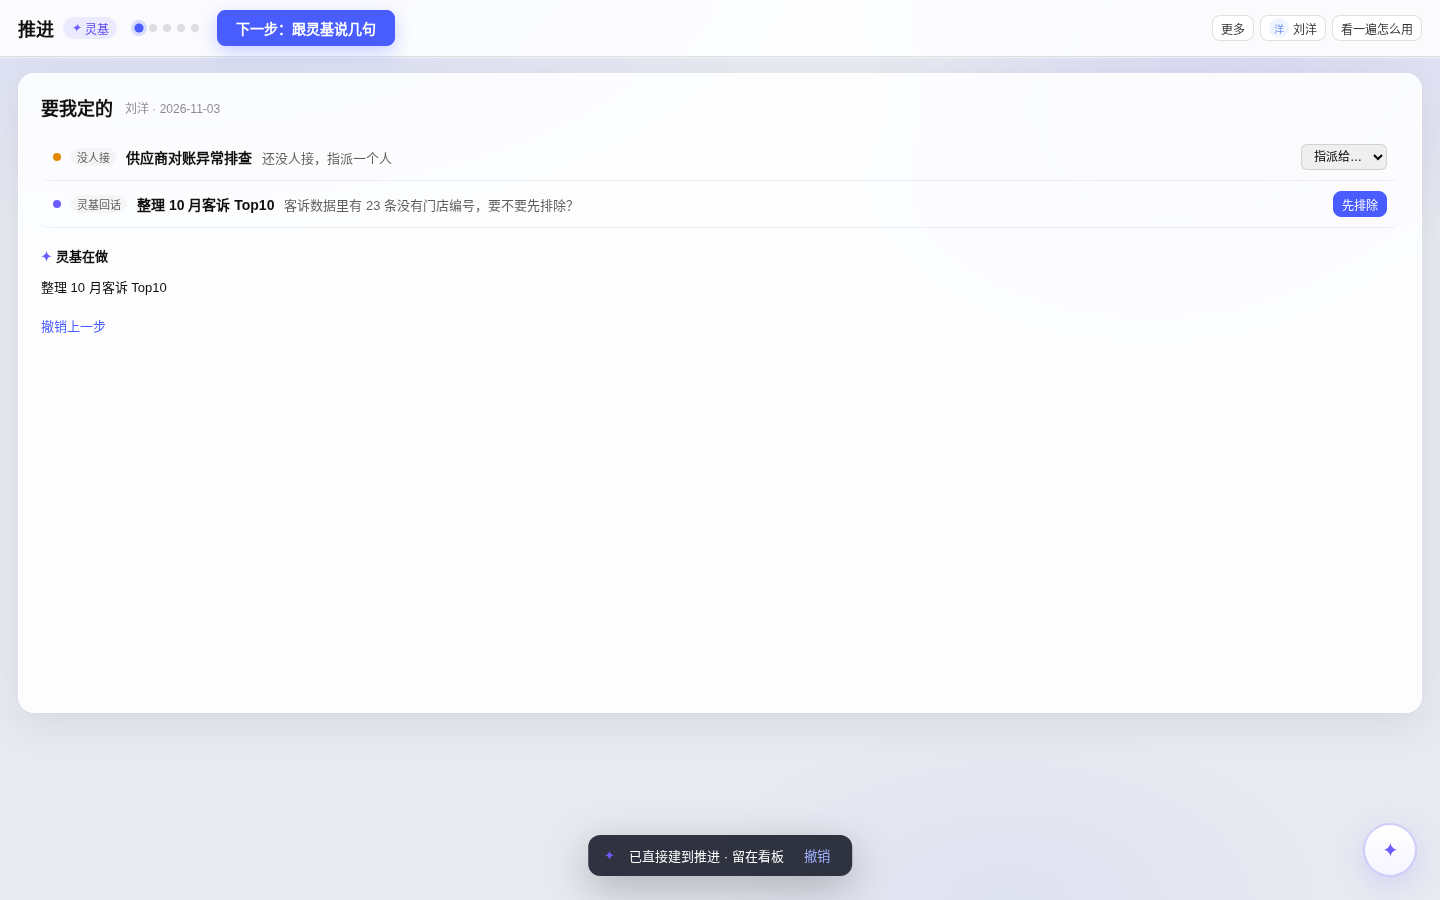
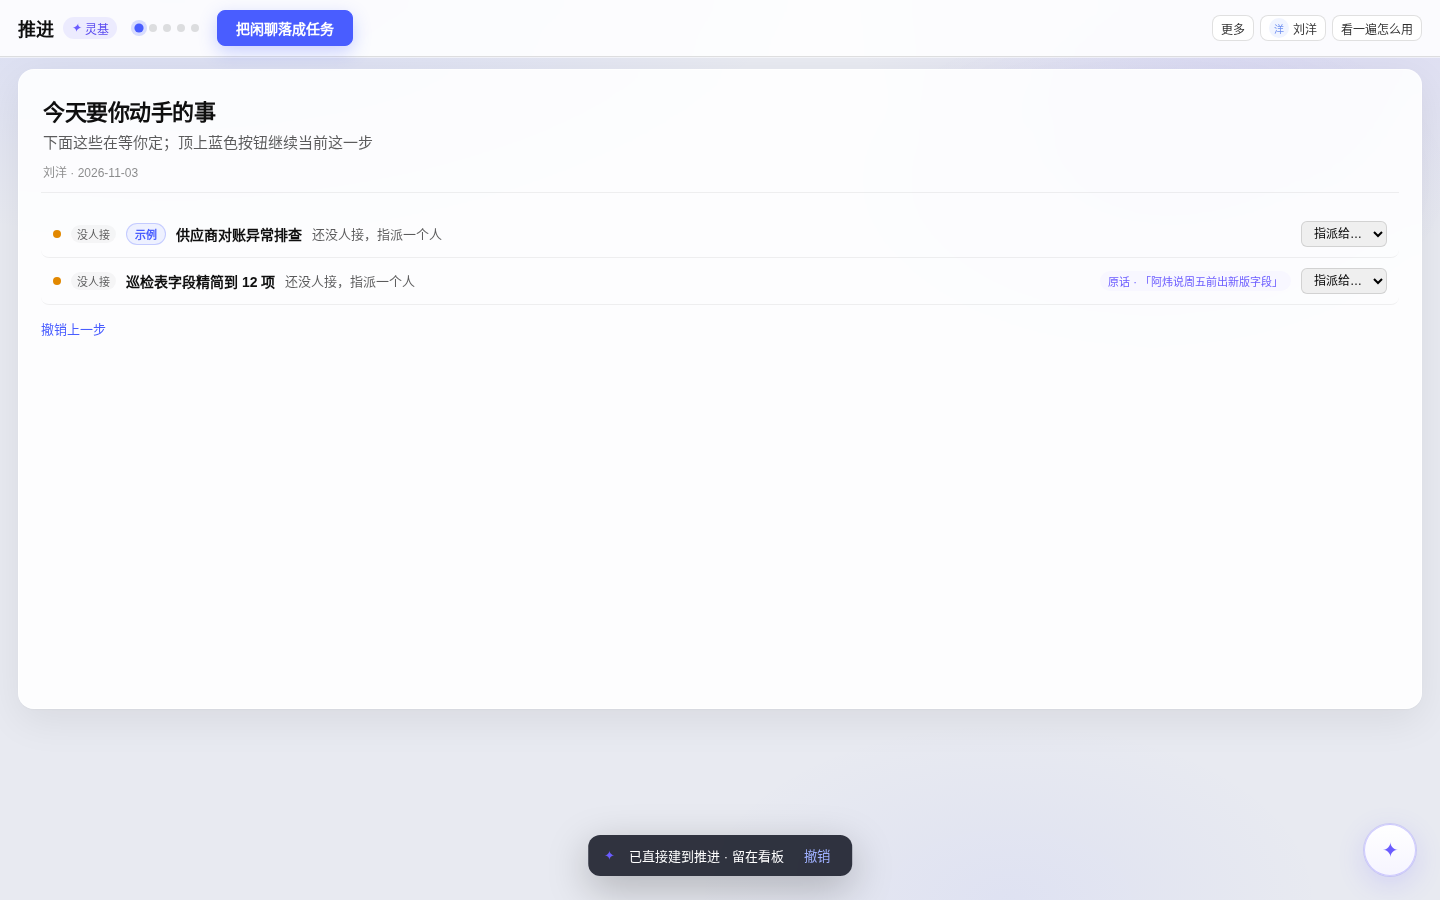
Clarify home UX: hero, one sample row, concrete CTA verbs, tip
New users were lost on an empty-feeling board with vague「下一步」.
Home now answers「我现在要干嘛」with title/subtitle, a single 示例
focus row, dismissible tip for blue button / ✦ / 更多, and CTA labels
that always name the verb. Create lands as 没人接 so it stays visible.

diff --git a/src/App.tsx b/src/App.tsx
@@ -1,7 +1,7 @@
 import { useEffect, useReducer, useRef, useState, useCallback } from 'react'
 import { A, ADV_ID, FLOW_STEPS, FlowStep, initial, Overlay, reduce, ROLES, S, STATE_CN, Task, TODAY, TRANSCRIPT, WEEK, focusRows, FocusRow, Who, TState, STENO_ID } from './store'
 
-const KEY = 'advance-flow-v5'
+const KEY = 'advance-flow-v6'
 type H = { cur: S; past: S[] }
 function hreduce(h: H, a: A | { type: 'undo' }): H {
   if (a.type === 'undo') return h.past.length ? { cur: { ...h.past[0], toast: '已撤销' }, past: h.past.slice(1) } : h
@@ -43,9 +43,9 @@ export function nextStep(s: S): { id: string; label: string; run: (dispatch: (a:
   const draft = first('灵基交稿')
   if (draft) return { id: 'sendConfirm', label: '发给确认人', run: d => d({ type: 'sendConfirm', id: draft.task.id }) }
   const conf = first('待确认')
-  if (conf) return { id: 'confirm', label: '确认无误', run: d => d({ type: 'confirm', id: conf.task.id }) }
+  if (conf) return { id: 'confirm', label: '确认纪要', run: d => d({ type: 'confirm', id: conf.task.id }) }
   const accept = first('待验收')
-  if (accept) return { id: 'accept', label: '验收通过', run: d => d({ type: 'accept', id: accept.task.id }) }
+  if (accept) return { id: 'accept', label: '验收完成', run: d => d({ type: 'accept', id: accept.task.id }) }
   const due = first('到期')
   if (due) return { id: 'due', label: '提交验收', run: d => d({ type: 'setState', id: due.task.id, state: 'in_review' }) }
   const lingeeDoing = s.tasks.find(t => t.assignee === '灵基' && t.kind === 'minutes' && t.state === 'in_progress')
@@ -55,16 +55,16 @@ export function nextStep(s: S): { id: string; label: string; run: (dispatch: (a:
   const hasDirect = s.tasks.some(t => t.source?.type === 'direct')
   const hasStenoSet = s.tasks.some(t => t.kind === 'set' && t.source?.type === 'steno')
   const hasChatSet = s.tasks.some(t => t.kind === 'set' && t.source?.type === 'chat')
-  if (!hasDirect) return { id: 'open-create', label: '下一步：新建任务', run: d => d({ type: 'overlay', overlay: 'create' }) }
-  if (!hasChatSet) return { id: 'open-chat', label: '下一步：跟灵基说几句', run: d => { if (!s.lingee.open) d({ type: 'lingeeToggle' }); d({ type: 'cmd', open: true }) } }
-  if (!hasStenoSet) return { id: 'open-room', label: '下一步：开讨论拆任务', run: d => d({ type: 'startDiscussion', title: '门店巡检改版对齐', source: `item:${ADV_ID}`, boundTask: ADV_ID }) }
+  if (!hasDirect) return { id: 'open-create', label: '新建一条任务', run: d => d({ type: 'overlay', overlay: 'create' }) }
+  if (!hasChatSet) return { id: 'open-chat', label: '把闲聊落成任务', run: d => { if (!s.lingee.open) d({ type: 'lingeeToggle' }); d({ type: 'cmd', open: true }) } }
+  if (!hasStenoSet) return { id: 'open-room', label: '把讨论拆成任务', run: d => d({ type: 'startDiscussion', title: '门店巡检改版对齐', source: `item:${ADV_ID}`, boundTask: ADV_ID }) }
 
   if (take) return { id: 'take', label: `接下「${take.task.title.slice(0, 10)}」`, run: d => { d({ type: 'setState', id: take.task.id, state: 'in_progress' }); d({ type: 'toast', text: `已接下「${take.task.title}」` }) } }
   const empty = first('没人接')
   if (empty) return { id: 'assign', label: '指派给阿炜', run: d => d({ type: 'assign', id: empty.task.id, who: '阿炜' }) }
   const ack = first('灵基回话')
   if (ack) return { id: 'ack', label: '先排除', run: d => d({ type: 'ack', id: ack.task.id }) }
-  return { id: 'open-create2', label: '下一步：再建一个', run: d => d({ type: 'overlay', overlay: 'create' }) }
+  return { id: 'open-create2', label: '再建一条任务', run: d => d({ type: 'overlay', overlay: 'create' }) }
 }
 
 export default function App() {
@@ -74,6 +74,10 @@ export default function App() {
   const [moreOpen, setMoreOpen] = useState(false)
   const [roleOpen, setRoleOpen] = useState(false)
   const [chainOpen, setChainOpen] = useState(false)
+  const [tipOn, setTipOn] = useState(() => {
+    try { return localStorage.getItem('advance-flow-tip-v1') !== '1' } catch { return true }
+  })
+  const dismissTip = () => { try { localStorage.setItem('advance-flow-tip-v1', '1') } catch {} setTipOn(false) }
   useEffect(() => { localStorage.setItem(KEY, JSON.stringify(s)) }, [s])
   useEffect(() => { if (s.toast) { const t = setTimeout(() => d({ type: 'toast' }), 3500); return () => clearTimeout(t) } }, [s.toast])
   useEffect(() => { if (s.overlay === 'room' && s.recording && s.lines < TRANSCRIPT.length) { const t = setTimeout(() => d({ type: 'line' }), s.demo ? 400 : 900); return () => clearTimeout(t) } }, [s.overlay, s.recording, s.lines, s.demo])
@@ -109,7 +113,7 @@ export default function App() {
           <span className="ai-badge"><i className="spark">✦</i> 灵基</span>
         </div>
         <FlowDots flowStep={s.flowStep} />
-        <button className="primary glow next-cta" data-testid="next-step" onClick={() => step.run(dispatch)}>{step.label || '下一步'}</button>
+        <button className="primary glow next-cta" data-testid="next-step" onClick={() => step.run(dispatch)}>{step.label || '新建一条任务'}</button>
         <div className="top-right">
           <div className="menu-wrap">
             <button className="ghost sm" data-testid="more-btn" onClick={() => { setMoreOpen(v => !v); setRoleOpen(false) }}>更多</button>
@@ -132,6 +136,13 @@ export default function App() {
           <button className="ghost sm" data-testid="demo" onClick={() => { if (!s.demo) { localStorage.removeItem(KEY); dispatch({ type: 'reset' }) } setTimeout(() => dispatch({ type: 'demo', on: !s.demo }), 50) }}>{s.demo ? '停止' : '看一遍怎么用'}</button>
         </div>
       </header>
+
+      {tipOn && (
+        <div className="tip-banner" data-testid="first-run-tip" role="status">
+          <span>用法：点蓝色按钮做当前这一步；右边 ✦ 是跟灵基说话；更多里是日历/归档。</span>
+          <button className="ghost sm" data-testid="tip-dismiss" onClick={dismissTip} aria-label="关闭提示">知道了</button>
+        </div>
+      )}
 
       <div className="body">
         <main className="glass-panel board-main">
@@ -303,12 +314,12 @@ function CmdPalette({ s, dispatch, onClose }: P & { onClose: () => void }) {
 function CreateDirect({ s, dispatch }: P) {
   const f = s.createForm
   return <div className="create" data-testid="create-view">
-    <p className="help">写标题，点下面大按钮就进看板。</p>
+    <p className="help">写标题，点下面大按钮就进看板。负责人可先空着——会作为「没人接」出现在看板。</p>
     <div className="create-form glass">
       <label>标题<input data-testid="create-title" value={f.title} onChange={e => dispatch({ type: 'createForm', patch: { title: e.target.value } })} placeholder="例如：巡检表字段精简到 12 项" /></label>
       <label>谁说的（可选）<input data-testid="create-quote" value={f.quote} onChange={e => dispatch({ type: 'createForm', patch: { quote: e.target.value } })} placeholder="方便以后回看" /></label>
       <div className="create-row">
-        <label>负责人<select value={f.assignee} onChange={e => dispatch({ type: 'createForm', patch: { assignee: e.target.value as Who } })}>{['灵基', ...ROLES.map(r => r.name)].map(n => <option key={n}>{n}</option>)}</select></label>
+        <label>负责人<select value={f.assignee} onChange={e => dispatch({ type: 'createForm', patch: { assignee: e.target.value as Who } })}>{['', '灵基', ...ROLES.map(r => r.name)].map(n => <option key={n || 'none'} value={n}>{n || '先空着（没人接）'}</option>)}</select></label>
         <label>截止<input type="date" value={f.due} onChange={e => dispatch({ type: 'createForm', patch: { due: e.target.value } })} /></label>
       </div>
     </div>
@@ -432,11 +443,26 @@ function Focus({ s, dispatch, undo }: P & { undo: () => void }) {
   const [obj, setObj] = useState('')
   const [objTarget, setObjTarget] = useState(OBJ_TARGETS[1])
   const lingeeDoing = s.tasks.filter(t => t.assignee === '灵基' && t.state === 'in_progress')
+  const hasDirect = s.tasks.some(t => t.source?.type === 'direct')
+  const heroSub = hasDirect
+    ? '下面这些在等你定；顶上蓝色按钮继续当前这一步'
+    : '先建一条任务，或点下面看一遍'
   return <div className="focus" data-testid="board">
-    <div className="vhead"><h2>要我定的</h2><span className="weak">{s.role} · {TODAY}</span></div>
-    {rows.length === 0 && <div className="empty">今天清空了 🎉<div className="empty-hint">点顶上「下一步」，或右下角灵基气泡</div></div>}
+    <div className="board-hero" data-testid="board-hero">
+      <h2>今天要你动手的事</h2>
+      <p className="hero-sub">{heroSub}</p>
+      {!hasDirect && (
+        <button className="link hero-demo" data-testid="hero-demo" onClick={() => {
+          if (!s.demo) { localStorage.removeItem('advance-flow-v6'); dispatch({ type: 'reset' }) }
+          setTimeout(() => dispatch({ type: 'demo', on: !s.demo }), 50)
+        }}>{s.demo ? '停止演示' : '看一遍怎么用'}</button>
+      )}
+      <span className="weak hero-meta">{s.role} · {TODAY}</span>
+    </div>
+    {rows.length === 0 && <div className="empty" data-testid="board-empty">今天清空了 🎉<div className="empty-hint">点顶上蓝色按钮继续，或右下角 ✦ 跟灵基说</div></div>}
     {rows.map(r => <div key={r.key} className={`frow ${open === r.key ? 'open' : ''}`} data-testid="frow" data-kind={r.kind} onClick={() => setOpen(r.key)}>
       <i className={`dot ${DOT[r.kind]}`} /><span className="kind">{r.kind}</span>
+      {r.task.sample && <span className="sample-tag" data-testid="sample-tag">示例</span>}
       <b>{r.task.title}</b><span className="line">{r.line}</span>
       {r.task.source && <button className="src" onClick={e => { e.stopPropagation(); dispatch({ type: 'jumpSource', line: r.task.source!.line ?? 0 }) }}>{r.task.source.label}</button>}
       <span className="acts" onClick={e => e.stopPropagation()}>{actions(r, s, dispatch, obj, setObj, objTarget, setObjTarget)}</span>
@@ -459,10 +485,10 @@ function actions(r: FocusRow, s: S, dispatch: (a: A) => void, obj: string, setOb
     case '没人接': return <select className="sm" defaultValue="" onChange={e => dispatch({ type: 'assign', id: t.id, who: e.target.value as Who })}><option value="" disabled>指派给…</option>{ROLES.map(x => <option key={x.name}>{x.name}</option>)}</select>
     case '灵基回话': return <button className="primary sm" onClick={() => dispatch({ type: 'ack', id: t.id })}>先排除</button>
     case '灵基交稿': return <button className="primary sm" data-testid="act-send-confirm" onClick={() => dispatch({ type: 'sendConfirm', id: t.id })}>发给确认人</button>
-    case '待确认': return <><button className="primary sm" data-testid="act-confirm" onClick={() => dispatch({ type: 'confirm', id: t.id })}>确认无误</button>
+    case '待确认': return <><button className="primary sm" data-testid="act-confirm" onClick={() => dispatch({ type: 'confirm', id: t.id })}>确认纪要</button>
       <input className="sm" placeholder="异议" value={obj} onChange={e => setObj(e.target.value)} data-testid="obj-input" />
       <button className="ghost sm" data-testid="act-object" onClick={() => { dispatch({ type: 'object', id: t.id, text: obj || '拍照必填要分门店类型，便利店先不强制', target: objTarget }); setObj('') }}>反对</button></>
-    case '待验收': return <><button className="primary sm" data-testid="act-accept" onClick={() => dispatch({ type: 'accept', id: t.id })}>验收</button><button className="ghost sm" onClick={() => dispatch({ type: 'return', id: t.id })}>退回</button></>
+    case '待验收': return <><button className="primary sm" data-testid="act-accept" onClick={() => dispatch({ type: 'accept', id: t.id })}>验收完成</button><button className="ghost sm" onClick={() => dispatch({ type: 'return', id: t.id })}>退回</button></>
     case '没人动·催一下': return <button className="ghost sm" onClick={() => dispatch({ type: 'nudge', id: t.id })}>催一下</button>
   }
 }
@@ -502,7 +528,7 @@ function stateBtns(t: Task, s: S, dispatch: (a: A) => void) {
   const go = (st: TState, label: string, id?: string) => <button className="ghost sm" data-testid={id} onClick={() => dispatch({ type: 'setState', id: t.id, state: st })}>{label}</button>
   if (t.assignee === me && t.state === 'suggested' && t.kind === 'task') return go('in_progress', '接下')
   if (t.assignee === me && t.state === 'in_progress' && t.kind === 'task') return go('in_review', '提交验收', 'submit-review')
-  if (t.creator === me && t.state === 'in_review') return <><button className="primary sm" onClick={() => dispatch({ type: 'accept', id: t.id })}>验收</button><button className="ghost sm" onClick={() => dispatch({ type: 'return', id: t.id })}>退回</button></>
+  if (t.creator === me && t.state === 'in_review') return <><button className="primary sm" onClick={() => dispatch({ type: 'accept', id: t.id })}>验收完成</button><button className="ghost sm" onClick={() => dispatch({ type: 'return', id: t.id })}>退回</button></>
   return null
 }
 
@@ -560,7 +586,7 @@ function useDemo(s: S, dispatch: (a: A) => void) {
         if (!alive || !ref.current.demo) return
         fn(); dispatch({ type: 'toast', text: `看一遍 · ${label}` }); await wait(ms)
       }
-      dispatch({ type: 'demo', on: false }); dispatch({ type: 'toast', text: '看完了。平时点「下一步」就行。' })
+      dispatch({ type: 'demo', on: false }); dispatch({ type: 'toast', text: '看完了。平时点蓝色按钮上的动词就行。' })
     })()
     return () => { alive = false }
   }, [s.demo])

diff --git a/src/store.ts b/src/store.ts
@@ -20,6 +20,7 @@ export interface Task {
   id: string; title: string; assignee: Who; creator: Role; state: TState; due?: string
   parentId?: string; kind: Kind; source?: Source
   comments: Comment[]; nudged?: boolean; seen?: boolean; rev?: number; ackLingee?: boolean
+  /** 首页示例行：仅作引导，不是真实待办堆 */ sample?: boolean
   /** 任务集/产物字段（不是会议类型） */
   purpose?: string; consensus?: string[]; product?: string
   /** 异议指向的纪要条 */
@@ -94,8 +95,8 @@ const seedTasks = (): Task[] => [
     consensus: ['先试点 3 家店', '表单精简优先'],
   },
   { id: 'adv_1188', title: 'Q4 门店评分口径复核', assignee: '张三', creator: '刘洋', state: 'in_progress', due: '2026-11-03', kind: 'task', comments: [], source: { type: 'steno', ref: SOURCE_KEY, line: 0, label: '来自速记「上周巡检对齐」' } },
-  { id: 'adv_1190', title: '供应商对账异常排查', assignee: '', creator: '刘洋', state: 'suggested', due: '2026-11-06', kind: 'task', comments: [] },
-  { id: 'adv_1193', title: '整理 10 月客诉 Top10', assignee: '灵基', creator: '刘洋', state: 'in_progress', kind: 'task', comments: [{ by: '灵基', text: '客诉数据里有 23 条没有门店编号，要不要先排除？', at: '10:12' }] },
+  // 首页只露出这一条 focus 行，让新人一眼看到「要动手」的样子
+  { id: 'adv_1190', title: '供应商对账异常排查', assignee: '', creator: '刘洋', state: 'suggested', due: '2026-11-06', kind: 'task', comments: [], sample: true },
   { id: 'adv_1195', title: '巡检 App 崩溃率周报', assignee: '老王', creator: '张三', state: 'suggested', due: '2026-11-05', kind: 'task', comments: [], source: { type: 'steno', ref: SOURCE_KEY, line: 2, label: '来自速记「上周巡检对齐」' } },
 ]
 
@@ -114,12 +115,12 @@ export const initial = (): S => ({
   entry: null, chat: [], cmdOpen: false,
   lingee: {
     open: false, phase: 'ready',
-    stream: '点「下一步」跟着走就行。需要时再点右下角灵基气泡。',
+    stream: '先点蓝色按钮「新建一条任务」。要闲聊或拆讨论，再点我。',
     pills: ['直接建任务', '帮我记下几件事', '开一场讨论采证'], quote: undefined, note: '待命',
   },
   pendingSlot: null,
   evidence: emptyEvidence(),
-  createForm: { title: '', assignee: '阿炜', due: '2026-11-07', quote: '' },
+  createForm: { title: '', assignee: '', due: '2026-11-07', quote: '' },
   carryIn: [],
   returnHint: undefined,
 })
@@ -318,7 +319,7 @@ export function reduce(prev: S, a: A): S {
       log(s, 'POST /items {entry:direct}', '现有', `直接建任务「${title}」`)
       s.createForm = { title: '', assignee: '阿炜', due: '2026-11-07', quote: '' }
       s.overlay = null; s.view = 'focus'; s.step = 4; bumpFlow(s, 1); s.toast = '已直接建到推进 · 留在看板'
-      setLingee(s, { phase: 'ready', stream: `「${title}」已进看板。点「下一步」继续，或点右下角灵基。`, note: '已新建', pills: ['闲聊落成', '会后从速记拆'], quote: quote || undefined })
+      setLingee(s, { phase: 'ready', stream: `「${title}」已进看板。蓝按钮会告诉你下一步动词，或点我继续。`, note: '已新建', pills: ['闲聊落成', '会后从速记拆'], quote: quote || undefined })
       break
     }
     case 'addNote': {

diff --git a/src/style.css b/src/style.css
@@ -270,3 +270,15 @@ blockquote{margin:6px 0 0;padding:4px 8px;border-left:2px solid var(--lingee);ba
 .app.simple .chain{display:block}
 .empty-hint{margin-top:8px;font-size:13px;color:var(--weak)}
 .app.simple .lr-hint{display:none}
+
+/* ===== first-run clarity ===== */
+.tip-banner{display:flex;align-items:center;gap:12px;justify-content:space-between;margin:0 20px 0;padding:10px 14px;border-radius:12px;background:#eef1ff;border:1px solid rgba(73,93,255,.22);color:#24306b;font-size:13px;line-height:1.45;box-shadow:0 4px 16px rgba(73,93,255,.08)}
+.tip-banner span{flex:1}
+.board-hero{margin-bottom:18px;padding:4px 2px 12px;border-bottom:1px solid var(--line2)}
+.board-hero h2{margin:0 0 6px;font-size:22px;letter-spacing:-.02em}
+.hero-sub{margin:0 0 8px;font-size:15px;color:var(--mut);line-height:1.5}
+.hero-meta{font-size:12px}
+.sample-tag{font-size:11px;font-weight:600;color:#495dff;background:#eef1ff;border:1px solid rgba(73,93,255,.25);border-radius:999px;padding:2px 8px}
+.app.simple .body{padding-top:12px}
+
+.hero-demo{display:inline-block;margin:0 0 8px;font-size:14px;font-weight:600}

diff --git a/README.md b/README.md
@@ -1,13 +1,13 @@
 # 推进链路原型 · advance-flow-prototype
 
-**推进 = system of record。默认只看「要我定的」。**
+**推进 = system of record。默认只看「今天要你动手的事」。**
 
-点顶上 **「下一步」** 跟着走：新建 → 闲聊 → 讨论拆 → 确认 → 验收。  
+点顶上**蓝色按钮**（上面写着具体动词，比如「新建一条任务」「把讨论拆成任务」「确认纪要」「验收完成」）跟着走。  
 右下角 ✦ 是灵基气泡；「更多」里才有日历 / 速记 / 全部任务 / 云之家。  
-不会用？点 **「看一遍怎么用」**。
+不会用？看首页提示条，或点 **「看一遍怎么用」**。
 
 ## 模型（没变）
-推进是真相源。三条入口都在：直接建 / 闲聊落成 / 会后从速记拆——用「下一步」或灵基气泡发现，不并排三张卡。
+推进是真相源。三条入口都在：直接建 / 闲聊落成 / 会后从速记拆——用蓝色按钮或灵基气泡发现，不并排三张卡。
 
 ## 跑
 ```bash
